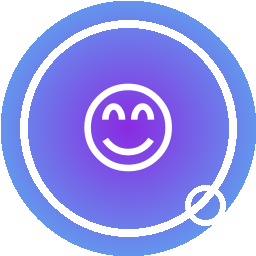
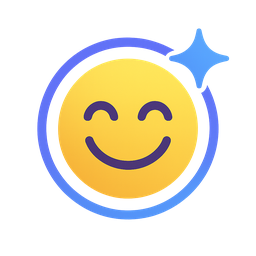
feat(clipboard): preserve clipboard content in Alfred emoji workflow (#12)
* Add clipboard preservation to Alfred workflow

The workflow now preserves the clipboard content before pasting an emoji
and restores it immediately after. This prevents losing any previously
copied content when using the emoji picker.

Changes:
- Replaced simple clipboard action with a run script action
- Script saves current clipboard with pbpaste before copying emoji
- Pastes emoji using AppleScript (Cmd+V simulation)
- Restores original clipboard content after a brief delay
- Updated readme to document clipboard preservation feature
- Bumped version to 1.2.0

* Update workflow icon with logo from main branch

Replaced the workflow icon with the higher quality logo.png from the
main branch. The new icon features a yellow smiley face with a blue
ring and sparkle, providing a more polished and professional look.

* Fix clipboard preservation and add missing emoji keywords

Alfred Workflow Changes:
- Improved clipboard handling to use AppleScript for transient operations
- This prevents emojis from being stored in Alfred's clipboard history
- Changed from pbcopy/pbpaste to native AppleScript clipboard management
- Added proper delays to ensure paste completes before restoration

Emoji Keywords Added:
- yank, yankee → 🇺🇸
- save, saved → 💾
- gross, yuk, yuck, barf, puke, vomit, sick, nauseous, disgusting → 🤮 🤢

British English slang:
- mate, mates, cheers, bloke, cheeky, knackered, gutted, brilliant, lovely

Canadian English slang:
- eh, toque, loonie, double-double
[…]

diff --git a/src/main.rs b/src/main.rs
@@ -336,6 +336,8 @@ static SLANG_MAP: Lazy<HashMap<&'static str, Vec<&'static str>>> = Lazy::new(|| 
     map.insert("usa", vec!["🇺🇸"]);
     map.insert("america", vec!["🇺🇸"]);
     map.insert("murica", vec!["🇺🇸"]);
+    map.insert("yank", vec!["🇺🇸"]);
+    map.insert("yankee", vec!["🇺🇸"]);
     map.insert("uk", vec!["🇬🇧"]);
     map.insert("britain", vec!["🇬🇧"]);
     map.insert("brit", vec!["🇬🇧"]);
@@ -364,6 +366,15 @@ static SLANG_MAP: Lazy<HashMap<&'static str, Vec<&'static str>>> = Lazy::new(|| 
     map.insert("ace", vec!["👌"]);
     map.insert("bollocks", vec!["🤦"]);
     map.insert("guarding", vec!["💂"]);
+    map.insert("mate", vec!["🤝", "👥"]);
+    map.insert("mates", vec!["👥", "🤝"]);
+    map.insert("cheers", vec!["🍻", "🥂"]);
+    map.insert("bloke", vec!["👨", "🧔"]);
+    map.insert("cheeky", vec!["😏", "😜"]);
+    map.insert("knackered", vec!["😴", "😩"]);
+    map.insert("gutted", vec!["😞", "😔"]);
+    map.insert("brilliant", vec!["✨", "🌟"]);
+    map.insert("lovely", vec!["🥰", "💕"]);
 
     // Australian English slang
     map.insert("roo", vec!["🦘"]);
@@ -374,6 +385,20 @@ static SLANG_MAP: Lazy<HashMap<&'static str, Vec<&'static str>>> = Lazy::new(|| 
     map.insert("goon", vec!["🍷"]);
     map.insert("croc", vec!["🐊"]);
     map.insert("tropical", vec!["🌴"]);
+
+    // Canadian English slang
+    map.insert("eh", vec!["🇨🇦", "🤔"]);
+    map.insert("toque", vec!["🧢", "🇨🇦"]);
+    map.insert("loonie", vec!["🪙", "🇨🇦"]);
+    map.insert("double-double", vec!["☕", "🇨🇦"]);
+    map.insert("doubledouble", vec!["☕"]);
+
+    // American English slang
+    map.insert("dude", vec!["🤙", "😎"]);
+    map.insert("awesome", vec!["🤩", "🔥"]);
+    map.insert("trash", vec!["🗑", "💩"]);
+    map.insert("garbage", vec!["🗑", "🚮"]);
+    map.insert("jerk", vec!["😠", "🤬"]);
 
     // Singlish slang
     map.insert("lah", vec!["🇸🇬"]);
@@ -436,6 +461,16 @@ static SLANG_MAP: Lazy<HashMap<&'static str, Vec<&'static str>>> = Lazy::new(|| 
     map.insert("upset", vec!["😠", "😡"]);
     map.insert("angry", vec!["😡", "🤬"]);
     map.insert("mad", vec!["😡", "😠"]);
+    map.insert("gross", vec!["🤮", "🤢"]);
+    map.insert("yuk", vec!["🤮", "🤢"]);
+    map.insert("yuck", vec!["🤮", "🤢"]);
+    map.insert("barf", vec!["🤮"]);
+    map.insert("puke", vec!["🤮"]);
+    map.insert("vomit", vec!["🤮"]);
+    map.insert("sick", vec!["🤢", "🤮", "🤒"]);
+    map.insert("nauseous", vec!["🤢"]);
+    map.insert("nauseated", vec!["🤢", "🤮"]);
+    map.insert("disgusting", vec!["🤮", "🤢"]);
     map.insert("love", vec!["❤", "💕", "😍"]);
     map.insert("heart", vec!["❤", "💕", "💖"]);
     map.insert("cute", vec!["🥰", "😊", "🩷"]);
@@ -489,6 +524,8 @@ static SLANG_MAP: Lazy<HashMap<&'static str, Vec<&'static str>>> = Lazy::new(|| 
     map.insert("hungry", vec!["🍔", "😋"]);
     map.insert("workout", vec!["💪", "🏋"]);
     map.insert("gym", vec!["💪", "🏋"]);
+    map.insert("save", vec!["💾", "💿"]);
+    map.insert("saved", vec!["💾", "✅"]);
     map.insert("run", vec!["🏃", "💨"]);
     map.insert("walk", vec!["🚶", "👣"]);
     map.insert("drive", vec!["🚗", "🚙"]);
@@ -519,6 +556,26 @@ static SLANG_MAP: Lazy<HashMap<&'static str, Vec<&'static str>>> = Lazy::new(|| 
     map.insert("gaming", vec!["🎮", "🕹"]);
     map.insert("music", vec!["🎵", "🎶"]);
     map.insert("song", vec!["🎵", "🎤"]);
+
+    // Internet and gaming slang
+    map.insert("spam", vec!["📧", "🚫"]);
+    map.insert("hack", vec!["💻", "🔓"]);
+    map.insert("hacker", vec!["👨💻", "🔓"]);
+    map.insert("glitch", vec!["⚡", "🐛"]);
+    map.insert("lag", vec!["🐌", "⏳"]);
+    map.insert("afk", vec!["🚶", "⌨"]);
+    map.insert("brb", vec!["🔙", "⏰"]);
+    map.insert("ttyl", vec!["👋", "💬"]);
+    map.insert("gg", vec!["🎮", "🤝"]);
+    map.insert("gamer", vec!["🎮", "👾"]);
+    map.insert("noob", vec!["🐥", "🤡"]);
+    map.insert("pro", vec!["⭐", "🏆"]);
+    map.insert("pwn", vec!["💪", "🏆"]);
+    map.insert("pwned", vec!["☠", "💀"]);
+    map.insert("owned", vec!["☠", "😂"]);
+    map.insert("rekt", vec!["💀", "☠"]);
+    map.insert("ez", vec!["😎", "💯"]);
+    map.insert("easy", vec!["😎", "👍"]);
 
     // Misc popular culture
     map.insert("alien", vec!["👽", "🛸"]);
